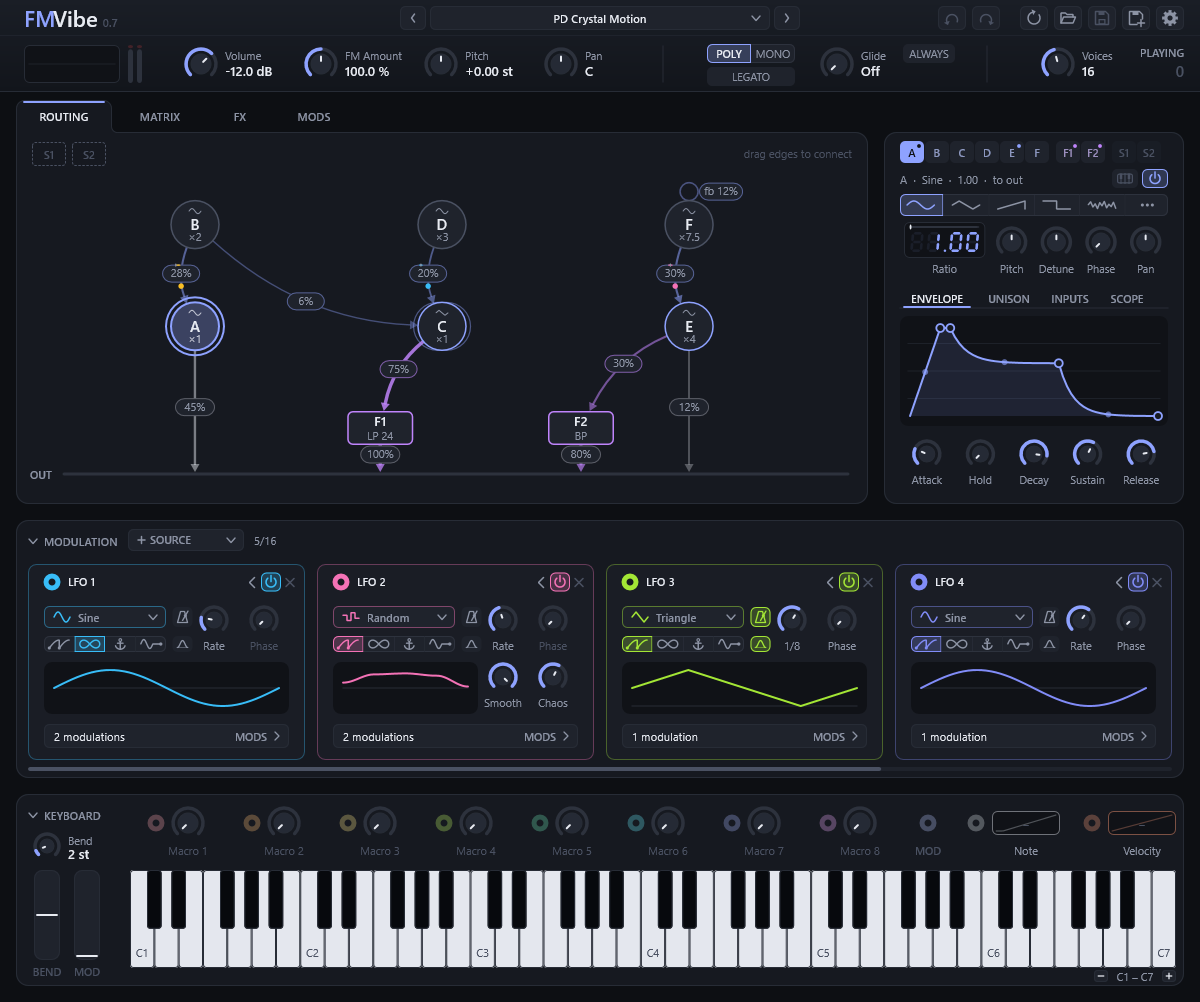
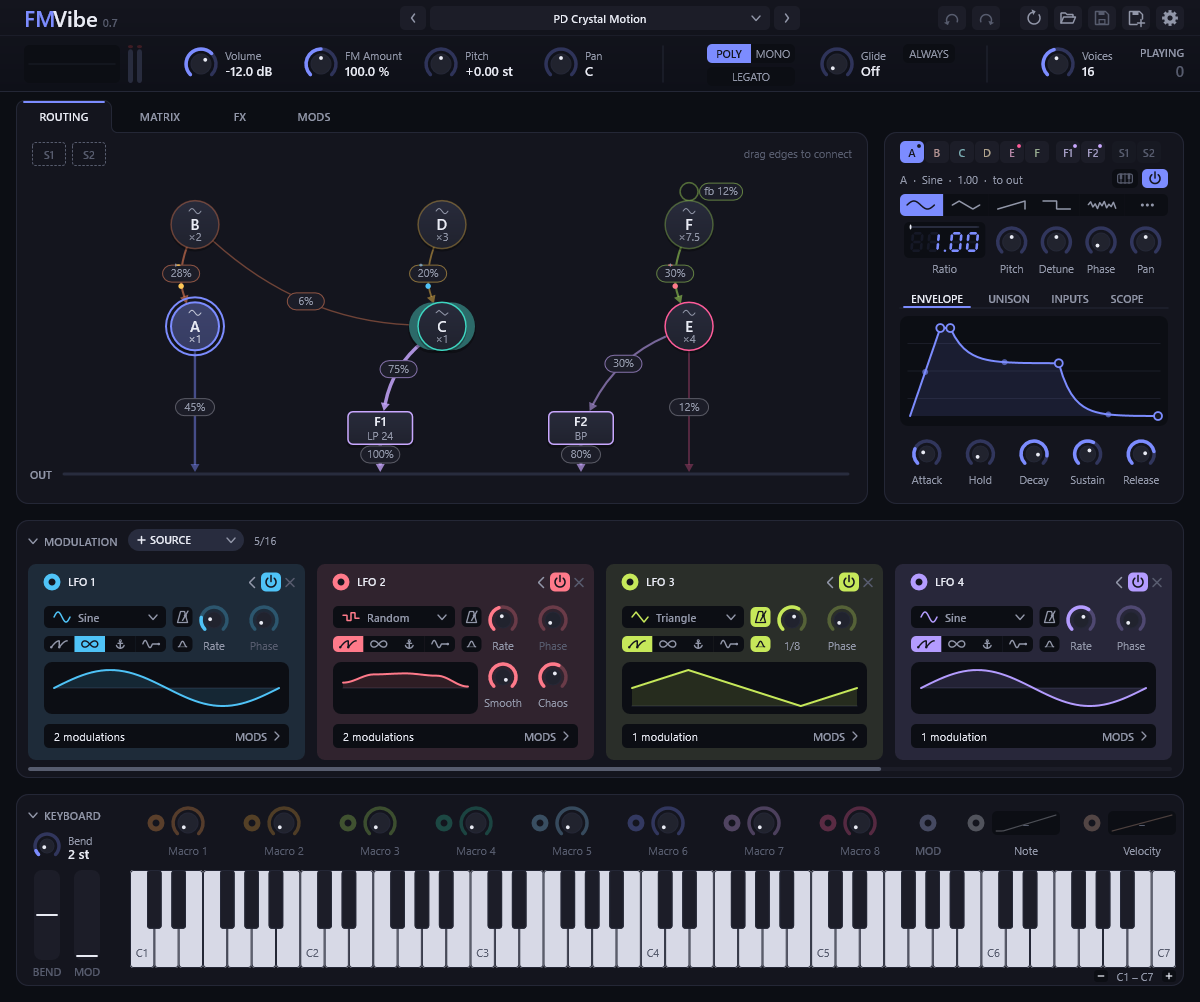
Put Spectrum and Porcelain first, make Spectrum the default
The settings dialog lists Spectrum, Porcelain, Midnight, Light, and an editor
given no theme shows Spectrum (themes are stored by name, so a saved choice
stays). The browser demo's page takes Spectrum's colors. The README's
screenshots render in Spectrum, which release.ps1 copies, and docs/ holds
them now. The rest of the UI snapshots stay in Midnight, which their pixel
checks read.

diff --git a/web/site/style.css b/web/site/style.css
@@ -1,12 +1,12 @@
 /* The page around the editor, in the editor's default theme: its background, panels, text and accent. */
 :root {
-  --background: #0d0f13;
-  --panel: #161920;
-  --raised: #1f232c;
-  --border: #2d323d;
-  --text: #e8ebf2;
-  --muted: #8d94a5;
-  --accent: #8ea2ff;
+  --background: #0c0e14;
+  --panel: #14151e;
+  --raised: #1c1d28;
+  --border: #282c3e;
+  --text: #e9ebf4;
+  --muted: #9297a9;
+  --accent: #7c8cff;
   --font: "Segoe UI", system-ui, -apple-system, "Helvetica Neue", Arial, sans-serif;
 }
 
@@ -60,7 +60,7 @@ footer {
   padding: 16px;
   border: 0;
   border-radius: 4px;
-  background: rgba(13, 15, 19, 0.6);
+  background: rgba(12, 14, 20, 0.6);
   font: inherit;
   cursor: pointer;
 }
@@ -146,7 +146,7 @@ kbd {
   padding: 5px 14px;
   border-radius: 999px;
   background: var(--accent);
-  color: #0d0f13;
+  color: #0c0e14;
   font-size: 13px;
   font-weight: 600;
   white-space: nowrap;

diff --git a/src/gui/theme.h b/src/gui/theme.h
@@ -71,44 +71,6 @@ static_assert(static_cast<int>(FxType::Count) == 17, "a color for each effect ty
 
 // The themes the settings pick from, by name; the first is the default.
 inline constexpr Palette kThemes[] = {
-    {"Midnight", Str::ThemeMidnight,
-     Color::hex(0x0D0F13), Color::hex(0x161920), Color::hex(0x1F232C), Color::hex(0x272C36), Color::hex(0x2D323D),
-     Color::hex(0x252A35),
-     Color::hex(0xE8EBF2), Color::hex(0x8D94A5), Color::hex(0x4A5162),
-     Color::hex(0x8EA2FF), Color::hex(0xC084FC), Color::hex(0xFB923C),
-     {Color::hex(0x38BDF8), Color::hex(0xF472B6), Color::hex(0xA3E635), Color::hex(0x818CF8),
-      Color::hex(0xFBBF24), Color::hex(0x34D399), Color::hex(0xF87171), Color::hex(0xE879F9),
-      Color::hex(0x2DD4BF), Color::hex(0xFDE047), Color::hex(0xA78BFA), Color::hex(0xFDA4AF),
-      Color::hex(0x67E8F9), Color::hex(0x86EFAC), Color::hex(0x60A5FA), Color::hex(0xFDBA74),
-      Color::hex(0xFDB09A), Color::hex(0xFDBA74), Color::hex(0xFDE68A), Color::hex(0xBEF264),
-      Color::hex(0x6EE7B7), Color::hex(0x67E8F9), Color::hex(0xA5B4FC), Color::hex(0xF0ABFC),
-      Color::hex(0xE2E8F0), Color::hex(0xB8C4FF), Color::hex(0xFF9E7A)},
-     Color::hex(0x1A1D25), Color::hex(0x101217), Color::hex(0x1A1E26), Color::hex(0x12151B),
-     Color::hex(0xE4E7EE), Color::hex(0xCDD3DF), Color::hex(0x07090D), Color::hex(0x262C38), Color::hex(0x4A5162),
-     {Color::hex(0xFB923C), Color::hex(0xF87171), Color::hex(0x60A5FA), Color::hex(0xFBBF24), Color::hex(0xFB923C),
-      Color::hex(0xC084FC), Color::hex(0x34D399), Color::hex(0x2DD4BF), Color::hex(0x818CF8), Color::hex(0xF472B6),
-      Color::hex(0xA3E635), Color::hex(0x22D3EE), Color::hex(0xCBD5E1), Color::hex(0xE879F9),
-      Color::hex(0x2DD4BF), Color::hex(0xE0B878), Color::hex(0xA8A8AD)},
-     {Color::hex(0x6AA3F0), Color::hex(0x4CC9B0), Color::hex(0xEFB46F)}},
-    {"Light", Str::ThemeLight, // crisp: white cards and knob caps on a cool gray, with deep, saturated colors
-     Color::hex(0xD5DAE3), Color::hex(0xF3F5F8), Color::hex(0xE4E8EF), Color::hex(0xC3CAD6), Color::hex(0xCDD3DD),
-     Color::hex(0xFFFFFF),
-     Color::hex(0x0F131B), Color::hex(0x444C5D), Color::hex(0x878FA0),
-     Color::hex(0x3346D3), Color::hex(0x8A2BE2), Color::hex(0xDD4F07),
-     {Color::hex(0x0274B8), Color::hex(0xD0216D), Color::hex(0x4F8A0B), Color::hex(0x4338CA),
-      Color::hex(0xC26505), Color::hex(0x04805C), Color::hex(0xD11F1F), Color::hex(0xB01ECA),
-      Color::hex(0x0B857A), Color::hex(0xA87103), Color::hex(0x6D28D9), Color::hex(0xD0163F),
-      Color::hex(0x0780A0), Color::hex(0x138A3F), Color::hex(0x1F5BE0), Color::hex(0xDD4F07),
-      Color::hex(0x9A3412), Color::hex(0xDD4F07), Color::hex(0xA87103), Color::hex(0x4F8A0B),
-      Color::hex(0x04805C), Color::hex(0x0780A0), Color::hex(0x4338CA), Color::hex(0xB01ECA),
-      Color::hex(0x3F4A5C), Color::hex(0x4F52E8), Color::hex(0xC2410C)},
-     Color::hex(0xFFFFFF), Color::hex(0xE8ECF2), Color::hex(0xFFFFFF), Color::hex(0xEDF0F5),
-     Color::hex(0xFFFFFF), Color::hex(0xDDE3EC), Color::hex(0x1A1F29), Color::hex(0x3A4252), Color::hex(0x878FA0),
-     {Color::hex(0xDD4F07), Color::hex(0xD11F1F), Color::hex(0x1F5BE0), Color::hex(0xC26505), Color::hex(0xDD4F07),
-      Color::hex(0x8A2BE2), Color::hex(0x04805C), Color::hex(0x0B857A), Color::hex(0x4338CA), Color::hex(0xD0216D),
-      Color::hex(0x4F8A0B), Color::hex(0x0780A0), Color::hex(0x3B6A8C), Color::hex(0xB01ECA),
-      Color::hex(0x0B857A), Color::hex(0x9A6A1C), Color::hex(0x5F6066)},
-     {Color::hex(0x2F67D0), Color::hex(0x0B8A75), Color::hex(0xB86E0E)}},
     {"Spectrum", Str::ThemeSpectrum, // flat on a deep blue indigo, each operator in a color of its own
      Color::hex(0x0C0E14), Color::hex(0x14151E), Color::hex(0x1C1D28), Color::hex(0x242736), Color::hex(0x282C3E),
      Color::hex(0x21232E),
@@ -155,6 +117,44 @@ inline constexpr Palette kThemes[] = {
      {Color::hex(0x2F5BFF), Color::hex(0xD9541A), Color::hex(0x0A9488), Color::hex(0xB07A00), Color::hex(0xD0236E),
       Color::hex(0x4E8A0E)},
      0.07f, Color::hex(0xFFFFFF), Color::hex(0xF2F4F7), 0.22f, 0.06f, 0.07f},
+    {"Midnight", Str::ThemeMidnight,
+     Color::hex(0x0D0F13), Color::hex(0x161920), Color::hex(0x1F232C), Color::hex(0x272C36), Color::hex(0x2D323D),
+     Color::hex(0x252A35),
+     Color::hex(0xE8EBF2), Color::hex(0x8D94A5), Color::hex(0x4A5162),
+     Color::hex(0x8EA2FF), Color::hex(0xC084FC), Color::hex(0xFB923C),
+     {Color::hex(0x38BDF8), Color::hex(0xF472B6), Color::hex(0xA3E635), Color::hex(0x818CF8),
+      Color::hex(0xFBBF24), Color::hex(0x34D399), Color::hex(0xF87171), Color::hex(0xE879F9),
+      Color::hex(0x2DD4BF), Color::hex(0xFDE047), Color::hex(0xA78BFA), Color::hex(0xFDA4AF),
+      Color::hex(0x67E8F9), Color::hex(0x86EFAC), Color::hex(0x60A5FA), Color::hex(0xFDBA74),
+      Color::hex(0xFDB09A), Color::hex(0xFDBA74), Color::hex(0xFDE68A), Color::hex(0xBEF264),
+      Color::hex(0x6EE7B7), Color::hex(0x67E8F9), Color::hex(0xA5B4FC), Color::hex(0xF0ABFC),
+      Color::hex(0xE2E8F0), Color::hex(0xB8C4FF), Color::hex(0xFF9E7A)},
+     Color::hex(0x1A1D25), Color::hex(0x101217), Color::hex(0x1A1E26), Color::hex(0x12151B),
+     Color::hex(0xE4E7EE), Color::hex(0xCDD3DF), Color::hex(0x07090D), Color::hex(0x262C38), Color::hex(0x4A5162),
+     {Color::hex(0xFB923C), Color::hex(0xF87171), Color::hex(0x60A5FA), Color::hex(0xFBBF24), Color::hex(0xFB923C),
+      Color::hex(0xC084FC), Color::hex(0x34D399), Color::hex(0x2DD4BF), Color::hex(0x818CF8), Color::hex(0xF472B6),
+      Color::hex(0xA3E635), Color::hex(0x22D3EE), Color::hex(0xCBD5E1), Color::hex(0xE879F9),
+      Color::hex(0x2DD4BF), Color::hex(0xE0B878), Color::hex(0xA8A8AD)},
+     {Color::hex(0x6AA3F0), Color::hex(0x4CC9B0), Color::hex(0xEFB46F)}},
+    {"Light", Str::ThemeLight, // crisp: white cards and knob caps on a cool gray, with deep, saturated colors
+     Color::hex(0xD5DAE3), Color::hex(0xF3F5F8), Color::hex(0xE4E8EF), Color::hex(0xC3CAD6), Color::hex(0xCDD3DD),
+     Color::hex(0xFFFFFF),
+     Color::hex(0x0F131B), Color::hex(0x444C5D), Color::hex(0x878FA0),
+     Color::hex(0x3346D3), Color::hex(0x8A2BE2), Color::hex(0xDD4F07),
+     {Color::hex(0x0274B8), Color::hex(0xD0216D), Color::hex(0x4F8A0B), Color::hex(0x4338CA),
+      Color::hex(0xC26505), Color::hex(0x04805C), Color::hex(0xD11F1F), Color::hex(0xB01ECA),
+      Color::hex(0x0B857A), Color::hex(0xA87103), Color::hex(0x6D28D9), Color::hex(0xD0163F),
+      Color::hex(0x0780A0), Color::hex(0x138A3F), Color::hex(0x1F5BE0), Color::hex(0xDD4F07),
+      Color::hex(0x9A3412), Color::hex(0xDD4F07), Color::hex(0xA87103), Color::hex(0x4F8A0B),
+      Color::hex(0x04805C), Color::hex(0x0780A0), Color::hex(0x4338CA), Color::hex(0xB01ECA),
+      Color::hex(0x3F4A5C), Color::hex(0x4F52E8), Color::hex(0xC2410C)},
+     Color::hex(0xFFFFFF), Color::hex(0xE8ECF2), Color::hex(0xFFFFFF), Color::hex(0xEDF0F5),
+     Color::hex(0xFFFFFF), Color::hex(0xDDE3EC), Color::hex(0x1A1F29), Color::hex(0x3A4252), Color::hex(0x878FA0),
+     {Color::hex(0xDD4F07), Color::hex(0xD11F1F), Color::hex(0x1F5BE0), Color::hex(0xC26505), Color::hex(0xDD4F07),
+      Color::hex(0x8A2BE2), Color::hex(0x04805C), Color::hex(0x0B857A), Color::hex(0x4338CA), Color::hex(0xD0216D),
+      Color::hex(0x4F8A0B), Color::hex(0x0780A0), Color::hex(0x3B6A8C), Color::hex(0xB01ECA),
+      Color::hex(0x0B857A), Color::hex(0x9A6A1C), Color::hex(0x5F6066)},
+     {Color::hex(0x2F67D0), Color::hex(0x0B8A75), Color::hex(0xB86E0E)}},
 };
 constexpr int kThemeCount = static_cast<int>(std::size(kThemes));
 // A source left out of a theme's list would be drawn black.

diff --git a/tools/uishot.cpp b/tools/uishot.cpp
@@ -145,7 +145,9 @@ public:
     bool offersTempo = false; // a host that lets the editor set its tempo (the browser demo, fmvibe-uihost)
     double bpm = kDefaultTempo;
     int tempoSets = 0;
-    std::string themeName;
+    // Midnight, the theme the pixel checks were written in (an editor given no theme, or one it doesn't know, shows
+    // the default, Spectrum).
+    std::string themeName = "Midnight";
     double glowLevel = 0.0;
     Telemetry live{};
     int scopeOp = -1; // what the view last asked the scope to capture
@@ -2509,7 +2511,7 @@ void renderExample(const std::filesystem::path &dir, Renderer &renderer, const s
     view.mouseMove({600.0f, 600.0f}, {});
     shots = shots && model.ui.fxGraphView &&
             renderer.save(view, dir / (prefix + "-fx-graph-panel.png"), &panel);
-    if (!theme.empty()) { // in another theme, its effects as a row and its MODS view too
+    if (!theme.empty()) { // in a theme other than the checks' Midnight, its effects as a row and its MODS view too
         click(view, detail::fxModeButton(0).center());
         view.mouseMove({600.0f, 600.0f}, {});
         shots = shots && renderer.save(view, dir / (prefix + "-fx-row.png"));
@@ -8743,9 +8745,13 @@ void run(const std::filesystem::path &dir, float scale) {
           "the settings dialog switches MPE and picks its bend range, leaving the patch alone");
     view.mouseMove(option(3), {});
     check(renderer.save(view, dir / "14-settings.png"), "render the settings dialog");
-    // Its theme buttons repaint the whole editor in another theme.
-    bool themed = true;
-    for (int i = 1; i < View::themeCount(); ++i) {
+    // Its theme buttons repaint the whole editor in another theme. The first is the default.
+    const int midnight = detail::themeIndex("Midnight");
+    bool themed = detail::themeIndex("") == 0 && std::string_view(View::themeName(0)) == "Spectrum" &&
+                  std::string_view(View::themeName(1)) == "Porcelain";
+    for (int i = 0; i < View::themeCount(); ++i) {
+        if (i == midnight)
+            continue;
         click(view, theme(i));
         themed = themed && model.themeName == View::themeName(i);
         if (std::string_view(View::themeName(i)) == "Light")
@@ -8770,8 +8776,9 @@ void run(const std::filesystem::path &dir, float scale) {
         click(view, kFxTab);
         click(view, cog);
     }
-    click(view, theme(0));
-    check(themed && model.themeName == View::themeName(0), "the settings dialog picks the theme");
+    click(view, theme(midnight));
+    check(themed && model.themeName == "Midnight",
+          "the settings dialog lists Spectrum (the default) and Porcelain first, and picks the theme");
     // The GLOW slider sets how strongly the graphs' curves glow, on both pages, once it is let go.
     auto glowAt = [&](float amount) { return Point{dialog.x + 76.0f + 200.0f * amount, dialog.y + 397.0f}; };
     view.mouseDown(glowAt(0.2f), {});
@@ -8834,10 +8841,9 @@ void run(const std::filesystem::path &dir, float scale) {
     check(layout.sourcesCollapsed, "once it is closed, the editor takes clicks again");
     click(view, kSourcesToggle);
     runMore(dir, renderer);
-    renderExample(dir, renderer, "PD Crystal Motion", "24-example", 6);
-    renderExample(dir, renderer, "BA Neon Pluck", "24b-split-example", 4); // its effects as a graph, split low/high
-    renderExample(dir, renderer, "BA Neon Pluck", "40-spectrum-neon", 4, "Spectrum");
-    renderExample(dir, renderer, "PD Crystal Motion", "41-spectrum-crystal", 6, "Spectrum");
+    // The README's, in the default theme (see release.ps1); Neon Pluck's effects as a graph, split low and high.
+    renderExample(dir, renderer, "PD Crystal Motion", "24-example", 6, "Spectrum");
+    renderExample(dir, renderer, "BA Neon Pluck", "24b-split-example", 4, "Spectrum");
     renderExample(dir, renderer, "PD Crystal Motion", "42-porcelain-crystal", 6, "Porcelain");
     renderExample(dir, renderer, "BA Neon Pluck", "43-porcelain-neon", 4, "Porcelain");
     renderExample(dir, renderer, "BA Reese Bass", "25-reese", 4);

diff --git a/AGENTS.md b/AGENTS.md
@@ -258,8 +258,9 @@ the plain CMake commands and installing into a host are in the [README](README.m
     every other period and a high note's over more periods; falling silent with the output, and nothing once
     switched off;
   - the CPU cost of each factor.
-- **UI snapshots** (`tools/uishot.cpp`): renders the editor offscreen to PNGs in `build\<config>\ui-shots`. On the
-  way it replays drags and clicks:
+- **UI snapshots** (`tools/uishot.cpp`): renders the editor offscreen to PNGs in `build\<config>\ui-shots`, in Midnight,
+  the theme its pixel checks were written in, but for the checks and examples that pick another (the README's
+  screenshots in Spectrum). On the way it replays drags and clicks:
   - the effects graph's slot grid: switching to it showing the chain as its main line, as wired; the main
     line's + opening the list of effects with 2-band split under them, the split coming with its join, its
     empty bands each curving out to a + on its row, each + ringed in its wire's color (read off the rendered
@@ -492,7 +493,7 @@ the plain CMake commands and installing into a host are in the [README](README.m
     inside the editor at the chain's right end and staying over a switched-off card's dimming, read off the rendered
     pixels; the sources' closing
     at a click around it, and shutting with the panel for good), and the arrow between two effects adding one there;
-  - picking the oversampling, MPE and its bend range (leaving the patch alone), the theme and the depth handles'
+  - picking the oversampling, MPE and its bend range (leaving the patch alone), the theme (Spectrum, the default, and Porcelain first in its list) and the depth handles'
     size (drawn bigger at each, read off the rendered pixels), and dragging the glow slider and the lines slider (a source's dashed line drawn as strongly as it says, and not at all when off, read off the rendered pixels), in the settings dialog (with the editor rendered in each theme, and glowing), closing it with its x
     or a click around it, and the wheel scrolling nothing behind it;
   - undo and redo of drags, wheel runs, node moves, typed values and a removed effect with its modulation;
@@ -707,7 +708,7 @@ browser demo on Linux, with the Emscripten version `build-web.ps1` pins, and pub
 
 `.\release.ps1` does all of it: it needs `main`, a clean working tree, `main` level with origin and a free tag. It
 raises the minor version in `project()` at the top of `CMakeLists.txt` (`-Version 1.0` picks another), runs
-`build.ps1 -Validate` (every test and both validators), and copies the snapshots the tests render over the README's:
+`build.ps1 -Validate` (every test and both validators), and copies the snapshots the tests render, in the Spectrum theme, over the README's:
 PD Crystal Motion's routing view over `docs/editor.png` and its effects' panel as a chain over `docs/fx-chain.png`, and
 BA Neon Pluck's effects' panel, a graph split low and high, over `docs/fx-graph.png`. It then lists what it would do and asks; only an answer of `yes` commits
 `CMakeLists.txt` and the three screenshots as "Version X.Y" on `main`, tags it `vX.Y` and pushes `main` and the tag.

diff --git a/docs/features.md b/docs/features.md
@@ -1466,9 +1466,10 @@ may show anywhere, repaints the whole of it.
   **MPE**, Off or On, and its **Bend** range for the member channels, 12, 24, 48 (to begin with) or 96 semitones,
   faint while MPE is off (see MPE, above). Like Oversampling, they are saved with the project but not with presets,
   and aren't undo steps.
-  **Theme**: Midnight (the default), Light (crisp: white cards and knob caps on a cool gray, with deep colors),
-  Spectrum (deep indigo) or Porcelain (Spectrum in light: white panels lifted off a cool gray by soft shadows, their
-  cards with a slight one too), each button shown in its own colors. Spectrum and Porcelain share a flat look: each
+  **Theme**: Spectrum (deep indigo, the default), Porcelain (Spectrum in light: white panels lifted off a cool gray
+  by soft shadows, their cards with a slight one too), Midnight or Light (crisp: white cards and knob caps on a cool
+  gray, with deep colors), each button shown in its own colors. The browser demo's page around the editor is in
+  Spectrum's colors. Spectrum and Porcelain share a flat look: each
   effect and source card tinted with its own color and outlined only while the mouse is over it (or it is dragged),
   a split's container and its card in the effects graph likewise, on the same shadow as the cards beside them, the
   band it shows faintly in its color behind its cards; a knob's arc, and faintly its track, in the color of what it
